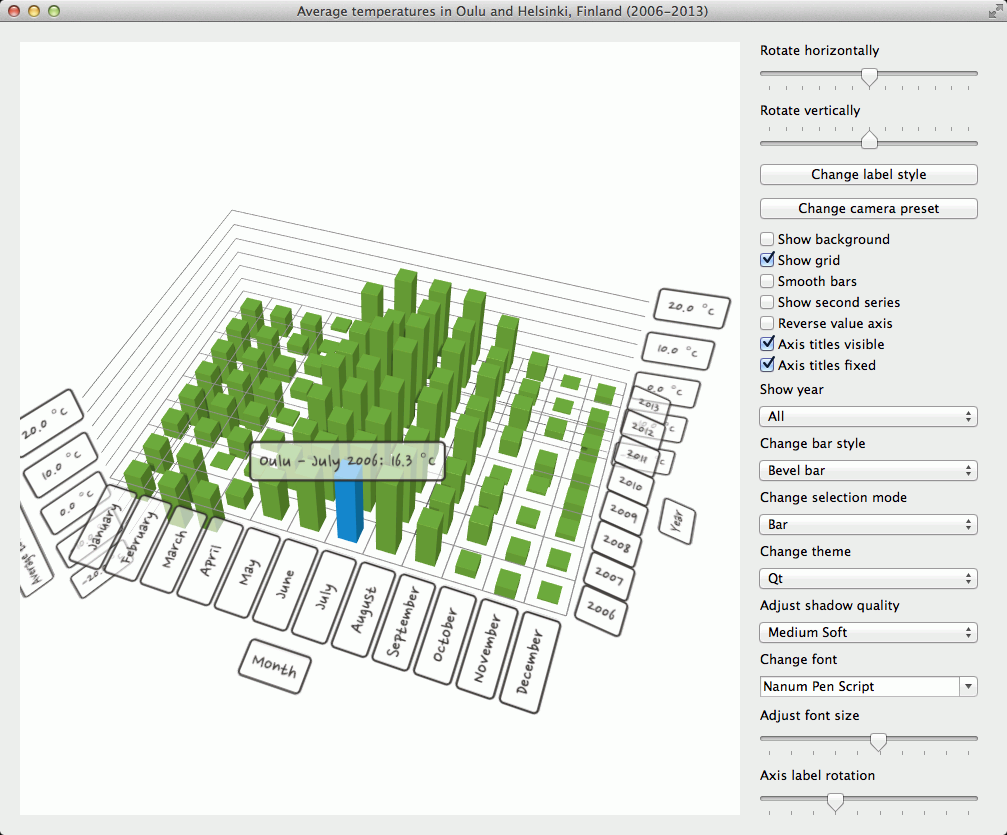
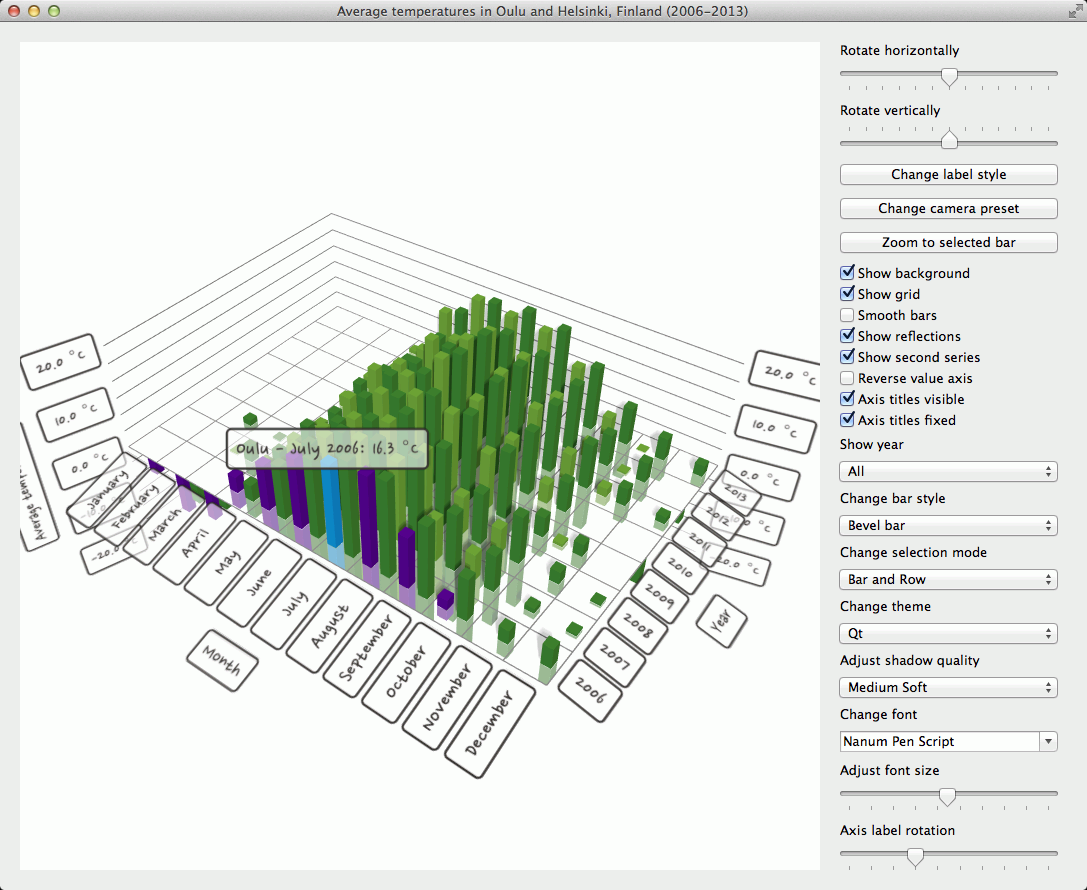
Added reflection to 2 examples
Task-number: QTRD-3290

+ changed the theme in texturesurface example

diff --git a/examples/datavisualization/bars/main.cpp b/examples/datavisualization/bars/main.cpp
@@ -72,6 +72,7 @@ int main(int argc, char **argv)
     smoothCheckBox->setText(QStringLiteral("Smooth bars"));
     smoothCheckBox->setChecked(false);
 
+
     QComboBox *barStyleList = new QComboBox(widget);
     barStyleList->addItem(QStringLiteral("Bar"), int(QAbstract3DSeries::MeshBar));
     barStyleList->addItem(QStringLiteral("Pyramid"), int(QAbstract3DSeries::MeshPyramid));
@@ -138,6 +139,10 @@ int main(int argc, char **argv)
     QCheckBox *reverseValueAxisCheckBox = new QCheckBox(widget);
     reverseValueAxisCheckBox->setText(QStringLiteral("Reverse value axis"));
     reverseValueAxisCheckBox->setChecked(false);
+
+    QCheckBox *reflectionCheckBox = new QCheckBox(widget);
+    reflectionCheckBox->setText(QStringLiteral("Show reflections"));
+    reflectionCheckBox->setChecked(false);
 
     //! [4]
     QSlider *rotationSliderX = new QSlider(Qt::Horizontal, widget);
@@ -213,6 +218,7 @@ int main(int argc, char **argv)
     vLayout->addWidget(backgroundCheckBox);
     vLayout->addWidget(gridCheckBox);
     vLayout->addWidget(smoothCheckBox);
+    vLayout->addWidget(reflectionCheckBox);
     vLayout->addWidget(seriesCheckBox);
     vLayout->addWidget(reverseValueAxisCheckBox);
     vLayout->addWidget(axisTitlesVisibleCB);
@@ -260,6 +266,8 @@ int main(int argc, char **argv)
                      &GraphModifier::setSeriesVisibility);
     QObject::connect(reverseValueAxisCheckBox, &QCheckBox::stateChanged, modifier,
                      &GraphModifier::setReverseValueAxis);
+    QObject::connect(reflectionCheckBox, &QCheckBox::stateChanged, modifier,
+                     &GraphModifier::setReflection);
 
     QObject::connect(modifier, &GraphModifier::backgroundEnabledChanged,
                      backgroundCheckBox, &QCheckBox::setChecked);

diff --git a/examples/datavisualization/customproxy/rainfallgraph.cpp b/examples/datavisualization/customproxy/rainfallgraph.cpp
@@ -49,7 +49,7 @@ RainfallGraph::RainfallGraph(Q3DBars *rainfall)
     // Set up bar specifications; make the bars as wide as they are deep,
     // and add a small space between the bars
     m_graph->setBarThickness(1.0f);
-    m_graph->setBarSpacing(QSizeF(0.2, 0.2));
+    m_graph->setBarSpacing(QSizeF(1.1, 1.1));
 
     // Set axis labels and titles
     QStringList months;
@@ -85,6 +85,9 @@ RainfallGraph::RainfallGraph(Q3DBars *rainfall)
 
     // Set window title
     m_graph->setTitle(QStringLiteral("Monthly rainfall in Northern Finland"));
+
+    // Set reflections on
+    m_graph->setReflection(true);
 }
 
 RainfallGraph::~RainfallGraph()

diff --git a/examples/datavisualization/texturesurface/surfacegraph.cpp b/examples/datavisualization/texturesurface/surfacegraph.cpp
@@ -43,7 +43,7 @@ SurfaceGraph::SurfaceGraph(Q3DSurface *surface)
     m_graph->axisX()->setLabelAutoRotation(30);
     m_graph->axisY()->setLabelAutoRotation(90);
     m_graph->axisZ()->setLabelAutoRotation(30);
-    m_graph->activeTheme()->setType(Q3DTheme::ThemeStoneMoss);
+    m_graph->activeTheme()->setType(Q3DTheme::ThemePrimaryColors);
 
     QFont font = m_graph->activeTheme()->font();
     font.setPointSize(20);

diff --git a/examples/datavisualization/bars/graphmodifier.h b/examples/datavisualization/bars/graphmodifier.h
@@ -50,6 +50,7 @@ public:
     void setSmoothBars(int smooth);
     void setSeriesVisibility(int enabled);
     void setReverseValueAxis(int enabled);
+    void setReflection(bool enabled);
 
 public slots:
     void changeRange(int range);

diff --git a/examples/datavisualization/bars/graphmodifier.cpp b/examples/datavisualization/bars/graphmodifier.cpp
@@ -420,3 +420,8 @@ void GraphModifier::setReverseValueAxis(int enabled)
 {
     m_graph->valueAxis()->setReversed(enabled);
 }
+
+void GraphModifier::setReflection(bool enabled)
+{
+    m_graph->setReflection(enabled);
+}
